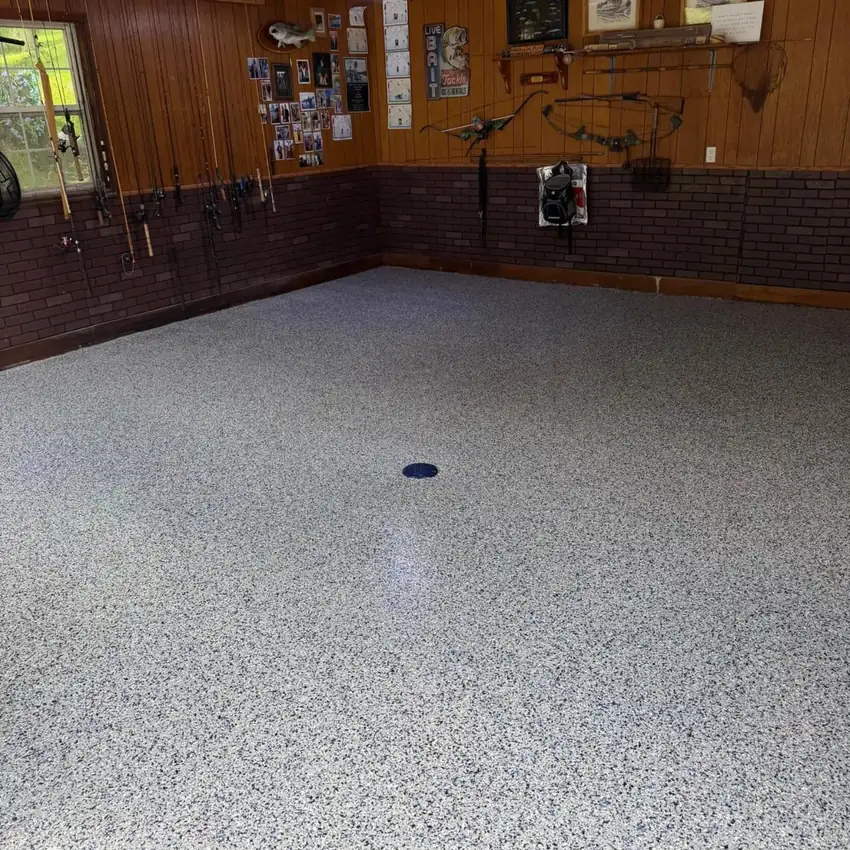
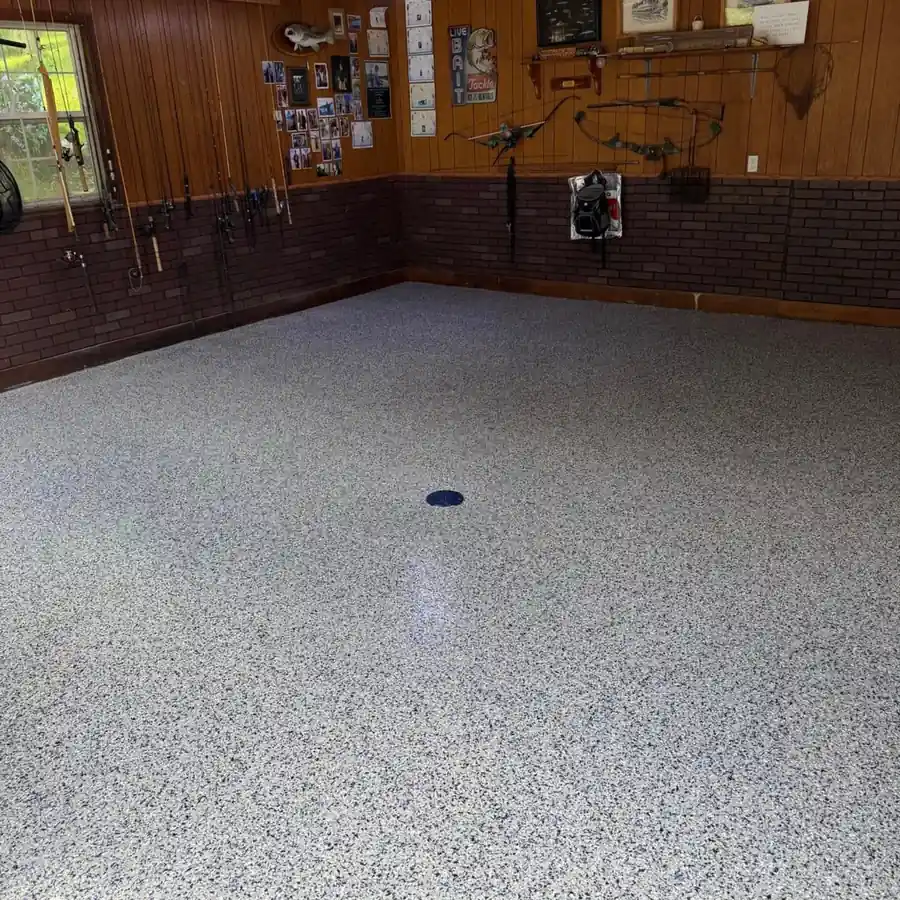
Compress 11 oversized homepage/gallery images flagged by SEO audit tool
Recompress the 11 images flagged as >100KB (up to 546KB) in the
babylovegrowth.ai technical SEO report to WebP under 100KB, resizing to
max 800-900px where needed and tuning quality per image to balance
size against visible detail loss.

Switch all <img src> references to these images across the site to the
recompressed .webp files (blog.html, gallery.html, index.html,
service-countertops.html, service-garage.html, colors.html's flake-color
modal). og:image/twitter:image/JSON-LD "image" fields are left pointing
at the original .jpg per existing convention for social-crawler/schema
compatibility.

diff --git a/index.html b/index.html
@@ -481,7 +481,7 @@ async function submitHeroQuote(){
 </div>
 </div>
 <div class="service-card">
-<div class="service-img" style="height:180px;overflow:hidden;position:relative"><img alt="Basement epoxy floor coating Missouri - gray flake system" loading="lazy" src="epoxy-workshop-floor-gray-flake-high-gloss-show-me-epoxy-missouri.jpg" style="width:100%;height:100%;object-fit:cover" width="1280" height="1280"></div>
+<div class="service-img" style="height:180px;overflow:hidden;position:relative"><img alt="Basement epoxy floor coating Missouri - gray flake system" loading="lazy" src="epoxy-workshop-floor-gray-flake-high-gloss-show-me-epoxy-missouri.webp" style="width:100%;height:100%;object-fit:cover" width="1280" height="1280"></div>
 <div class="service-body">
 <h3>Basement Epoxy Flooring</h3>
 <p>Transform your basement into a bright, functional space — whether it's a gym, storage area, workshop, or finished living space.</p>
@@ -495,7 +495,7 @@ async function submitHeroQuote(){
 </div>
 </div>
 <div class="service-card">
-<div class="service-img" style="height:180px;overflow:hidden;position:relative"><img alt="Commercial epoxy floor coating Jefferson City Missouri" loading="lazy" src="epoxy-floor-recreation-room-blue-flake-show-me-epoxy-missouri.jpg" style="width:100%;height:100%;object-fit:cover" width="1280" height="1280"></div>
+<div class="service-img" style="height:180px;overflow:hidden;position:relative"><img alt="Commercial epoxy floor coating Jefferson City Missouri" loading="lazy" src="epoxy-floor-recreation-room-blue-flake-show-me-epoxy-missouri.webp" style="width:100%;height:100%;object-fit:cover" width="1280" height="1280"></div>
 <div class="service-body">
 <h3>Commercial Epoxy Flooring</h3>
 <p>Heavy-duty systems for shops, warehouses, restaurants, and high-traffic commercial environments that demand maximum performance.</p>
@@ -509,7 +509,7 @@ async function submitHeroQuote(){
 </div>
 </div>
 <div class="service-card">
-<div class="service-img" style="height:180px;overflow:hidden;position:relative"><img alt="Patio and outdoor epoxy coating Missouri" loading="lazy" src="epoxy-garage-floor-transition-driveway-flake-system-missouri.jpg" style="width:100%;height:100%;object-fit:cover" width="1280" height="1280"></div>
+<div class="service-img" style="height:180px;overflow:hidden;position:relative"><img alt="Patio and outdoor epoxy coating Missouri" loading="lazy" src="epoxy-garage-floor-transition-driveway-flake-system-missouri.webp" style="width:100%;height:100%;object-fit:cover" width="1280" height="1280"></div>
 <div class="service-body">
 <h3>Patio &amp; Outdoor Coatings</h3>
 <p>Upgrade your outdoor living space with a UV-stable, slip-resistant system built to handle Missouri's weather year-round.</p>
@@ -523,7 +523,7 @@ async function submitHeroQuote(){
 </div>
 </div>
 <div class="service-card">
-<div class="service-img" style="height:180px;overflow:hidden;position:relative"><img alt="Epoxy countertop bathroom before and after Show Me Epoxy Missouri" loading="lazy" src="epoxy-bathroom-countertop-after-metallic-marble-effect-show-me-epoxy-missouri.jpg" style="width:100%;height:100%;object-fit:cover" width="1280" height="1280"></div>
+<div class="service-img" style="height:180px;overflow:hidden;position:relative"><img alt="Epoxy countertop bathroom before and after Show Me Epoxy Missouri" loading="lazy" src="epoxy-bathroom-countertop-after-metallic-marble-effect-show-me-epoxy-missouri.webp" style="width:100%;height:100%;object-fit:cover" width="1280" height="1280"></div>
 <div class="service-body">
 <h3>Epoxy Countertops</h3>
 <p>Custom countertop coatings for kitchens, bathrooms, and custom spaces — with endless color and design options.</p>
@@ -595,7 +595,7 @@ async function submitHeroQuote(){
       <div style="padding:9px 12px;background:rgba(0,0,0,.35)"><div style="font-size:13px;font-weight:700;color:#fff">Tidal Wave</div></div>
     </a>
     <a href="/colors.html" style="text-decoration:none;border-radius:12px;overflow:hidden;border:2px solid rgba(255,255,255,.08);transition:border-color .2s;display:block" onmouseover="this.style.borderColor='#ebfb3b'" onmouseout="this.style.borderColor='rgba(255,255,255,.08)'">
-      <img src="epoxy-flake-color-arrowhead.jpg" alt="Arrowhead epoxy flake color" style="width:100%;height:120px;object-fit:cover;display:block" loading="lazy" width="1280" height="1280">
+      <img src="epoxy-flake-color-arrowhead.webp" alt="Arrowhead epoxy flake color" style="width:100%;height:120px;object-fit:cover;display:block" loading="lazy" width="1280" height="1280">
       <div style="padding:9px 12px;background:rgba(0,0,0,.35)"><div style="font-size:13px;font-weight:700;color:#fff">Arrowhead</div></div>
     </a>
     <a href="/colors.html" style="text-decoration:none;border-radius:12px;overflow:hidden;border:2px solid rgba(255,255,255,.08);transition:border-color .2s;display:block" onmouseover="this.style.borderColor='#ebfb3b'" onmouseout="this.style.borderColor='rgba(255,255,255,.08)'">
@@ -669,14 +669,14 @@ async function submitHeroQuote(){
 </div>
 <div style="display:grid;grid-template-columns:repeat(3,1fr);gap:12px">
 <div style="border-radius:12px;overflow:hidden;aspect-ratio:4/3"><img src="epoxy-garage-floor-gray-flake-jefferson-city-missouri-show-me-epoxy.webp" alt="Epoxy garage floor gray flake Jefferson City Missouri" style="width:100%;height:100%;object-fit:cover;display:block" loading="lazy" width="1100" height="1100"></div>
-<div style="border-radius:12px;overflow:hidden;aspect-ratio:4/3"><img src="epoxy-garage-floor-black-white-large-flake-finished-jefferson-city.jpg" alt="Black and white large flake epoxy garage floor Jefferson City" style="width:100%;height:100%;object-fit:cover;display:block" loading="lazy" width="1280" height="1280"></div>
-<div style="border-radius:12px;overflow:hidden;aspect-ratio:4/3"><img src="epoxy-garage-floor-blue-gray-flake-finish-show-me-epoxy-missouri.jpg" alt="Blue gray flake epoxy garage floor Show Me Epoxy Missouri" style="width:100%;height:100%;object-fit:cover;display:block" loading="lazy" width="1280" height="1280"></div>
-<div style="border-radius:12px;overflow:hidden;aspect-ratio:4/3"><img src="epoxy-garage-floor-light-gray-flake-large-open-garage-missouri.jpg" alt="Light gray flake epoxy floor large open garage Missouri" style="width:100%;height:100%;object-fit:cover;display:block" loading="lazy" width="1280" height="1280"></div>
-<div style="border-radius:12px;overflow:hidden;aspect-ratio:4/3"><img src="epoxy-workshop-floor-gray-flake-high-gloss-show-me-epoxy-missouri.jpg" alt="Workshop epoxy floor gray flake high gloss Show Me Epoxy" style="width:100%;height:100%;object-fit:cover;display:block" loading="lazy" width="1280" height="1280"></div>
-<div style="border-radius:12px;overflow:hidden;aspect-ratio:4/3"><img src="epoxy-floor-recreation-room-blue-flake-show-me-epoxy-missouri.jpg" alt="Recreation room epoxy floor blue flake Show Me Epoxy Missouri" style="width:100%;height:100%;object-fit:cover;display:block" loading="lazy" width="1280" height="1280"></div>
-<div style="border-radius:12px;overflow:hidden;aspect-ratio:4/3"><img src="epoxy-garage-floor-workshop-gray-flake-jefferson-city-missouri.jpg" alt="Workshop garage floor epoxy gray flake Jefferson City" style="width:100%;height:100%;object-fit:cover;display:block" loading="lazy" width="1280" height="1280"></div>
+<div style="border-radius:12px;overflow:hidden;aspect-ratio:4/3"><img src="epoxy-garage-floor-black-white-large-flake-finished-jefferson-city.webp" alt="Black and white large flake epoxy garage floor Jefferson City" style="width:100%;height:100%;object-fit:cover;display:block" loading="lazy" width="1280" height="1280"></div>
+<div style="border-radius:12px;overflow:hidden;aspect-ratio:4/3"><img src="epoxy-garage-floor-blue-gray-flake-finish-show-me-epoxy-missouri.webp" alt="Blue gray flake epoxy garage floor Show Me Epoxy Missouri" style="width:100%;height:100%;object-fit:cover;display:block" loading="lazy" width="1280" height="1280"></div>
+<div style="border-radius:12px;overflow:hidden;aspect-ratio:4/3"><img src="epoxy-garage-floor-light-gray-flake-large-open-garage-missouri.webp" alt="Light gray flake epoxy floor large open garage Missouri" style="width:100%;height:100%;object-fit:cover;display:block" loading="lazy" width="1280" height="1280"></div>
+<div style="border-radius:12px;overflow:hidden;aspect-ratio:4/3"><img src="epoxy-workshop-floor-gray-flake-high-gloss-show-me-epoxy-missouri.webp" alt="Workshop epoxy floor gray flake high gloss Show Me Epoxy" style="width:100%;height:100%;object-fit:cover;display:block" loading="lazy" width="1280" height="1280"></div>
+<div style="border-radius:12px;overflow:hidden;aspect-ratio:4/3"><img src="epoxy-floor-recreation-room-blue-flake-show-me-epoxy-missouri.webp" alt="Recreation room epoxy floor blue flake Show Me Epoxy Missouri" style="width:100%;height:100%;object-fit:cover;display:block" loading="lazy" width="1280" height="1280"></div>
+<div style="border-radius:12px;overflow:hidden;aspect-ratio:4/3"><img src="epoxy-garage-floor-workshop-gray-flake-jefferson-city-missouri.webp" alt="Workshop garage floor epoxy gray flake Jefferson City" style="width:100%;height:100%;object-fit:cover;display:block" loading="lazy" width="1280" height="1280"></div>
 <div style="border-radius:12px;overflow:hidden;aspect-ratio:4/3"><img src="epoxy-garage-floor-workshop-cabinets-black-white-flake-missouri.webp" alt="Garage workshop with cabinets black white flake epoxy floor" style="width:100%;height:100%;object-fit:cover;display:block" loading="lazy" width="1100" height="1100"></div>
-<div style="border-radius:12px;overflow:hidden;aspect-ratio:4/3"><img src="epoxy-garage-floor-dark-gray-flake-high-gloss-finished-missouri.jpg" alt="Dark gray flake epoxy garage floor high gloss Missouri" style="width:100%;height:100%;object-fit:cover;display:block" loading="lazy" width="1280" height="1280"></div>
+<div style="border-radius:12px;overflow:hidden;aspect-ratio:4/3"><img src="epoxy-garage-floor-dark-gray-flake-high-gloss-finished-missouri.webp" alt="Dark gray flake epoxy garage floor high gloss Missouri" style="width:100%;height:100%;object-fit:cover;display:block" loading="lazy" width="1280" height="1280"></div>
 </div>
 <div class="text-center" style="margin-top:28px">
 <a href="/gallery.html" style="display:inline-block;background:var(--navy);color:#fff;font-weight:700;font-size:15px;padding:13px 28px;border-radius:var(--radius);text-decoration:none">View Full Project Gallery →</a>

diff --git a/gallery.html b/gallery.html
@@ -436,7 +436,7 @@ footer{background:var(--navy);color:rgba(255,255,255,.75);padding:56px 0 28px}
 </div>
 </div>
 <div style="border-radius:12px;overflow:hidden;border:1px solid var(--gray-200);box-shadow:var(--sh)">
-<img alt="Epoxy bathroom countertop metallic marble effect Show Me Epoxy Jefferson City" loading="lazy" src="epoxy-bathroom-countertop-after-metallic-marble-effect-show-me-epoxy-missouri.jpg" class="gallery-img" style="width:100%;height:200px;object-fit:cover;display:block;cursor:zoom-in" width="1280" height="1280">
+<img alt="Epoxy bathroom countertop metallic marble effect Show Me Epoxy Jefferson City" loading="lazy" src="epoxy-bathroom-countertop-after-metallic-marble-effect-show-me-epoxy-missouri.webp" class="gallery-img" style="width:100%;height:200px;object-fit:cover;display:block;cursor:zoom-in" width="1280" height="1280">
 <div style="padding:18px">
 <div style="font-size:11px;font-weight:700;letter-spacing:1px;text-transform:uppercase;color:var(--gold);margin-bottom:6px">Countertop — Jefferson City</div>
 <h3 style="font-family:var(--cond);font-size:18px;font-weight:800;color:var(--navy);margin-bottom:6px">Metallic Marble Effect</h3>
@@ -444,7 +444,7 @@ footer{background:var(--navy);color:rgba(255,255,255,.75);padding:56px 0 28px}
 </div>
 </div>
 <div style="border-radius:12px;overflow:hidden;border:1px solid var(--gray-200);box-shadow:var(--sh)">
-<img alt="Epoxy recreation room floor blue flake Show Me Epoxy Missouri" loading="lazy" src="epoxy-floor-recreation-room-blue-flake-show-me-epoxy-missouri.jpg" class="gallery-img" style="width:100%;height:200px;object-fit:cover;display:block;cursor:zoom-in" width="1280" height="1280">
+<img alt="Epoxy recreation room floor blue flake Show Me Epoxy Missouri" loading="lazy" src="epoxy-floor-recreation-room-blue-flake-show-me-epoxy-missouri.webp" class="gallery-img" style="width:100%;height:200px;object-fit:cover;display:block;cursor:zoom-in" width="1280" height="1280">
 <div style="padding:18px">
 <div style="font-size:11px;font-weight:700;letter-spacing:1px;text-transform:uppercase;color:var(--gold);margin-bottom:6px">Recreation Room — Missouri</div>
 <h3 style="font-family:var(--cond);font-size:18px;font-weight:800;color:var(--navy);margin-bottom:6px">Blue Blend Flake Floor</h3>
@@ -468,7 +468,7 @@ footer{background:var(--navy);color:rgba(255,255,255,.75);padding:56px 0 28px}
 </div>
 </div>
 <div style="border-radius:12px;overflow:hidden;border:1px solid var(--gray-200);box-shadow:var(--sh)">
-<img alt="Epoxy workshop garage floor gray flake Jefferson City Missouri" loading="lazy" src="epoxy-garage-floor-workshop-gray-flake-jefferson-city-missouri.jpg" class="gallery-img" style="width:100%;height:200px;object-fit:cover;display:block;cursor:zoom-in" width="1280" height="1280">
+<img alt="Epoxy workshop garage floor gray flake Jefferson City Missouri" loading="lazy" src="epoxy-garage-floor-workshop-gray-flake-jefferson-city-missouri.webp" class="gallery-img" style="width:100%;height:200px;object-fit:cover;display:block;cursor:zoom-in" width="1280" height="1280">
 <div style="padding:18px">
 <div style="font-size:11px;font-weight:700;letter-spacing:1px;text-transform:uppercase;color:var(--gold);margin-bottom:6px">Workshop Garage — Jefferson City</div>
 <h3 style="font-family:var(--cond);font-size:18px;font-weight:800;color:var(--navy);margin-bottom:6px">Charcoal Gray Flake</h3>
@@ -476,7 +476,7 @@ footer{background:var(--navy);color:rgba(255,255,255,.75);padding:56px 0 28px}
 </div>
 </div>
 <div style="border-radius:12px;overflow:hidden;border:1px solid var(--gray-200);box-shadow:var(--sh)">
-<img alt="Epoxy workshop floor gray flake high gloss Show Me Epoxy Missouri" loading="lazy" src="epoxy-workshop-floor-gray-flake-high-gloss-show-me-epoxy-missouri.jpg" class="gallery-img" style="width:100%;height:200px;object-fit:cover;display:block;cursor:zoom-in" width="1280" height="1280">
+<img alt="Epoxy workshop floor gray flake high gloss Show Me Epoxy Missouri" loading="lazy" src="epoxy-workshop-floor-gray-flake-high-gloss-show-me-epoxy-missouri.webp" class="gallery-img" style="width:100%;height:200px;object-fit:cover;display:block;cursor:zoom-in" width="1280" height="1280">
 <div style="padding:18px">
 <div style="font-size:11px;font-weight:700;letter-spacing:1px;text-transform:uppercase;color:var(--gold);margin-bottom:6px">Workshop Floor — Columbia</div>
 <h3 style="font-family:var(--cond);font-size:18px;font-weight:800;color:var(--navy);margin-bottom:6px">Gray Flake High Gloss</h3>
@@ -492,7 +492,7 @@ footer{background:var(--navy);color:rgba(255,255,255,.75);padding:56px 0 28px}
 </div>
 </div>
 <div style="border-radius:12px;overflow:hidden;border:1px solid var(--gray-200);box-shadow:var(--sh)">
-<img alt="Epoxy garage floor dark gray flake high gloss finished Missouri" loading="lazy" src="epoxy-garage-floor-dark-gray-flake-high-gloss-finished-missouri.jpg" class="gallery-img" style="width:100%;height:200px;object-fit:cover;display:block;cursor:zoom-in" width="1280" height="1280">
+<img alt="Epoxy garage floor dark gray flake high gloss finished Missouri" loading="lazy" src="epoxy-garage-floor-dark-gray-flake-high-gloss-finished-missouri.webp" class="gallery-img" style="width:100%;height:200px;object-fit:cover;display:block;cursor:zoom-in" width="1280" height="1280">
 <div style="padding:18px">
 <div style="font-size:11px;font-weight:700;letter-spacing:1px;text-transform:uppercase;color:var(--gold);margin-bottom:6px">Garage Floor — Fulton</div>
 <h3 style="font-family:var(--cond);font-size:18px;font-weight:800;color:var(--navy);margin-bottom:6px">Dark Gray High Gloss Flake</h3>

diff --git a/blog.html b/blog.html
@@ -551,7 +551,7 @@ footer{background:var(--navy);color:rgba(255,255,255,.75);padding:56px 0 28px}
 
         <article class="post-card" itemscope itemtype="https://schema.org/BlogPosting">
           <meta itemprop="author" content="Show Me Epoxy">
-          <div class="post-thumb t1" style="padding:0;overflow:hidden"><img src="epoxy-workshop-floor-gray-flake-high-gloss-show-me-epoxy-missouri.jpg" alt="High gloss epoxy workshop floor gray flake finish Show Me Epoxy Missouri" style="width:100%;height:100%;object-fit:cover;display:block" width="1280" height="1280" loading="lazy"></div>
+          <div class="post-thumb t1" style="padding:0;overflow:hidden"><img src="epoxy-workshop-floor-gray-flake-high-gloss-show-me-epoxy-missouri.webp" alt="High gloss epoxy workshop floor gray flake finish Show Me Epoxy Missouri" style="width:100%;height:100%;object-fit:cover;display:block" width="1280" height="1280" loading="lazy"></div>
           <div class="post-body">
             <div class="post-cat">Floor Types Explained</div>
             <h3 itemprop="headline"><a href="/blog-epoxy-floor-finish-glossy-matte-textured.html" style="color:inherit;text-decoration:none">Glossy, Matte, or Textured — How Do I Choose a Finish?</a></h3>
@@ -621,7 +621,7 @@ footer{background:var(--navy);color:rgba(255,255,255,.75);padding:56px 0 28px}
 
         <article class="post-card" itemscope itemtype="https://schema.org/BlogPosting">
           <meta itemprop="author" content="Show Me Epoxy">
-          <div class="post-thumb t2" style="padding:0;overflow:hidden"><img src="epoxy-garage-floor-black-white-large-flake-finished-jefferson-city.jpg" alt="Finished seamless epoxy garage floor with no grout lines Jefferson City Missouri" style="width:100%;height:100%;object-fit:cover;display:block" width="1280" height="1280" loading="lazy"></div>
+          <div class="post-thumb t2" style="padding:0;overflow:hidden"><img src="epoxy-garage-floor-black-white-large-flake-finished-jefferson-city.webp" alt="Finished seamless epoxy garage floor with no grout lines Jefferson City Missouri" style="width:100%;height:100%;object-fit:cover;display:block" width="1280" height="1280" loading="lazy"></div>
           <div class="post-body">
             <div class="post-cat">How-To &amp; DIY Tips</div>
             <h3 itemprop="headline"><a href="/blog-is-it-cheaper-to-tile-or-epoxy-a-floor.html" style="color:inherit;text-decoration:none">Is It Cheaper to Tile or Epoxy a Floor?</a></h3>

diff --git a/colors.html b/colors.html
@@ -284,7 +284,7 @@ footer{background:var(--navy);color:rgba(255,255,255,.75);padding:56px 0 28px}
       <p style="font-size:15px;color:rgba(255,255,255,.75);max-width:620px;line-height:1.65">Our most popular system. Full-broadcast ¼" vinyl flake in 16 signature color blends — textured, slip-resistant, and built to last. Included in all standard flake installs.</p>
     </div>
     <div id="standard-grid" style="display:grid;grid-template-columns:repeat(5,1fr);gap:16px">
-      <div onclick="openColorModal('Arrowhead','epoxy-flake-color-arrowhead.jpg','Charcoal, gray, white & red — bold contrast, great for garages')" style="border-radius:14px;overflow:hidden;border:2px solid rgba(255,255,255,.07);cursor:pointer;transition:transform .2s,border-color .2s;position:relative" onmouseover="this.style.transform='translateY(-4px)';this.style.borderColor='#ebfb3b'" onmouseout="this.style.transform='';this.style.borderColor='rgba(255,255,255,.07)'">
+      <div onclick="openColorModal('Arrowhead','epoxy-flake-color-arrowhead.webp','Charcoal, gray, white & red — bold contrast, great for garages')" style="border-radius:14px;overflow:hidden;border:2px solid rgba(255,255,255,.07);cursor:pointer;transition:transform .2s,border-color .2s;position:relative" onmouseover="this.style.transform='translateY(-4px)';this.style.borderColor='#ebfb3b'" onmouseout="this.style.transform='';this.style.borderColor='rgba(255,255,255,.07)'">
         <img src="epoxy-flake-color-arrowhead.webp" alt="Epoxy flake color Arrowhead - Show Me Epoxy Jefferson City Missouri" style="width:100%;height:180px;object-fit:cover;display:block" width="1200" height="1200" loading="eager" fetchpriority="high">
         <div style="padding:14px 16px;background:#0e3a90">
           <div style="font-size:15px;font-weight:800;color:#fff;margin-bottom:3px">Arrowhead</div>

diff --git a/service-countertops.html b/service-countertops.html
@@ -394,7 +394,7 @@ footer{background:var(--navy);color:rgba(255,255,255,.75);padding:56px 0 28px}
 <div style="padding:14px;background:#fff5f5;border-top:3px solid #e53e3e"><p style="font-size:13px;font-weight:700;color:#c53030">Before — Old Laminate Countertop</p></div>
 </div>
 <div style="border-radius:12px;overflow:hidden;border:1px solid var(--gray-200);box-shadow:0 2px 12px rgba(0,0,0,.08)">
-<img alt="Epoxy bathroom countertop after metallic marble effect Show Me Epoxy Missouri" loading="lazy" src="epoxy-bathroom-countertop-after-metallic-marble-effect-show-me-epoxy-missouri.jpg" style="width:100%;height:260px;object-fit:cover;display:block" width="1280" height="1280">
+<img alt="Epoxy bathroom countertop after metallic marble effect Show Me Epoxy Missouri" loading="lazy" src="epoxy-bathroom-countertop-after-metallic-marble-effect-show-me-epoxy-missouri.webp" style="width:100%;height:260px;object-fit:cover;display:block" width="1280" height="1280">
 <div style="padding:14px;background:#f0fff4;border-top:3px solid #38a169"><p style="font-size:13px;font-weight:700;color:#276749">After — Custom Metallic Marble Epoxy</p></div>
 </div>
 </div>

diff --git a/service-garage.html b/service-garage.html
@@ -403,7 +403,7 @@ footer{background:var(--navy);color:rgba(255,255,255,.75);padding:56px 0 28px}
 <div style="padding:14px;background:#fff5f5;border-top:3px solid #e53e3e"><p style="font-size:12px;font-weight:700;color:#c53030">BEFORE — Failed DIY Epoxy (No Diamond Grinding)</p></div>
 </div>
 <div style="border-radius:12px;overflow:hidden;border:1px solid var(--gray-200);box-shadow:0 2px 12px rgba(0,0,0,.08)">
-<img alt="Epoxy garage floor dark gray flake high gloss finished Missouri" loading="lazy" src="epoxy-garage-floor-dark-gray-flake-high-gloss-finished-missouri.jpg" style="width:100%;height:210px;object-fit:cover;display:block" width="1280" height="1280">
+<img alt="Epoxy garage floor dark gray flake high gloss finished Missouri" loading="lazy" src="epoxy-garage-floor-dark-gray-flake-high-gloss-finished-missouri.webp" style="width:100%;height:210px;object-fit:cover;display:block" width="1280" height="1280">
 <div style="padding:14px;background:#f0fff4;border-top:3px solid #38a169"><p style="font-size:12px;font-weight:700;color:#276749">AFTER — Dark Gray High Gloss Flake</p></div>
 </div>
 </div>
